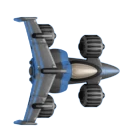
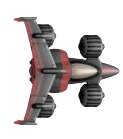
update

diff --git a/game.js b/game.js
@@ -6,6 +6,9 @@ const difficulty = document.getElementById('difficulty');
 const settings = document.getElementById('settings');
 const info = document.getElementById('how-to-play');
 const pause = document.getElementById('pause-div');
+const mode = document.getElementById('mode');
+const single = document.getElementById('single');
+const multi =  document.getElementById("multi");
 const so_img = document.getElementById('sound');
 const mu_img = document.getElementById('music');
 const music = new Audio('m.mp3');
@@ -71,7 +74,7 @@ function removeDiv(level) {
     setting_menu = true;
 
     setTimeout(() => { container.style.display = "none"; }, 700);
-    difficulty.style.display = 'none';
+    mode.style.display = 'none';
     play = true;
     playBird();
     playMusic()
@@ -117,6 +120,16 @@ document.getElementById('music').addEventListener('click', () => {
         music.muted = true;
         document.getElementById("music").src = "images/Music_BTN.png";
     }
+});
+
+single.addEventListener('click', ()=>{
+    //// Sinle Mode
+});
+
+
+multi.addEventListener("click", ()=>{
+///// multiplayer mode
+
 });
 
 
@@ -182,7 +195,7 @@ class Player {
         this.speedX = 0;
         this.speedY = 10;
         this.playerImage = new Image();
-        this.playerImage.src = 'player2.png';
+        this.playerImage.src = 'player1.png';
 
         this.movingLeft = false;
         this.movingRight = false;
@@ -277,6 +290,9 @@ const player2Conrollers = {up:'w', down:'s', right:'d', left : 'a', fire : 'Shif
 
 var p = new Player(player1Conrollers);//creating player from player class
 var p2 = new Player(player2Conrollers);
+p2.playerImage.src = 'player2.png';
+// p2.width = 100;
+// p2.height = 150;
 
 
 class Bullet {
@@ -347,7 +363,9 @@ function detectBirdCollision() {
         birds.forEach((bird) => {
             if (isPointInRectangle(pointX, pointY, bird.currentX, bird.currentY, bird.width, bird.height)) {
                 sCore++;
+                ////////////////////////////////////////////////////////////////////////////////////
                 localStorage.score=sCore;
+                /////////////////////////////////////////////////////////////////////////////////////
                 document.getElementById("score-content").innerText=localStorage.score;
                 bird.alive = false;
                 bullet.hitBird = true;

diff --git a/index.html b/index.html
@@ -29,9 +29,9 @@
     <div id="difficulty" class="template" style="display: none;">
       <img class="background"  src="images/Window.png" alt="">
       <p class="" id="header">Difficulty</p>
-      <p onclick="c.play();removeTemplate(difficulty);removeDiv(this);" class="" id="easy">Easy</p>
-      <p onclick="c.play();removeTemplate(difficulty);removeDiv(this);" class="" id="medium">Medium</p>
-      <p onclick="c.play();removeTemplate(difficulty);removeDiv(this);" class="" id="hard">Hard</p>
+      <p onclick="c.play();removeTemplate(difficulty);displayTemplate(mode)" class="" id="easy">Easy</p>
+      <p onclick="c.play();removeTemplate(difficulty);removeDiv(mode);" class="" id="medium">Medium</p>
+      <p onclick="c.play();removeTemplate(difficulty);removeDiv(mode);" class="" id="hard">Hard</p>
     </div>
 
     <div id="settings" class="template" style="display: none;">
@@ -73,6 +73,14 @@
       <img onmouseover="mouseOver(this,'images/Settings_BTN-active.png')" onmouseout="mouseOut(this,'images/Settings_BTN.png')" onclick="c.play();removeTemplate(pause);displayTemplate(settings);" class="icon" id="setting-img" src="images\Settings_BTN.png" alt="">
       <img onmouseover="mouseOver(this,'images/Menu_BTN-acive.png')" onmouseout="mouseOut(this,'images/Menu_BTN.png')" onclick="c.play();play = false;" class="icon" id="menu-img" src="images\Menu_BTN.png" alt="">
       <img onmouseover="mouseOver(this,'images/Close_BTN-acive.png')" onmouseout="mouseOut(this,'images/Close_BTN.png')" onclick="c.play();removeTemplate(pause);b.play();play = true;" class="icon" id="close-img" src="images\Close_BTN.png" alt="">
+    </div>
+
+
+    <div id="mode" class="template" style="display: none;">
+      <img class="background"  src="images/Window.png" alt="">
+      <p class="" id="header">Game Mode</p>
+      <p onclick="c.play();removeTemplate(mode);removeDiv(this);" class="" id="single">Single</p>
+      <p onclick="c.play();removeTemplate(mode);removeDiv(this);" class="" id="multi">Multiplayer</p>
     </div>
 
   </div>

diff --git a/css/css1.css b/css/css1.css
@@ -65,7 +65,7 @@
 
   .template img {
     width: 30%;
-    height: 485px;
+    height: 75%;
     position: absolute;
     right: 0;
     left: 0;
@@ -78,7 +78,7 @@
 
   .template #header, #pause-header {
     position: absolute;
-    top: 12%;
+    top: 15%;
     right: 0;
     left: 0;
     margin: auto;
